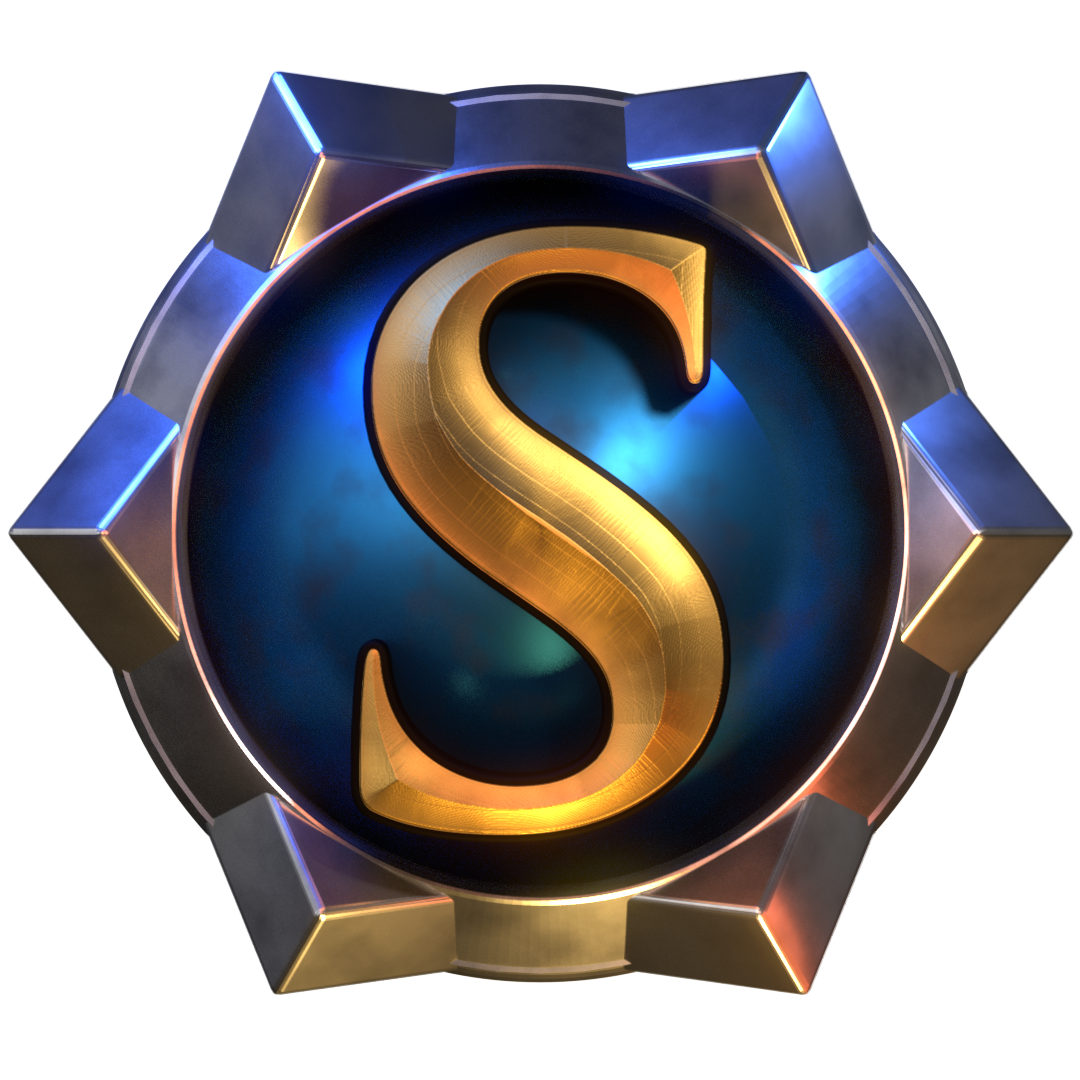
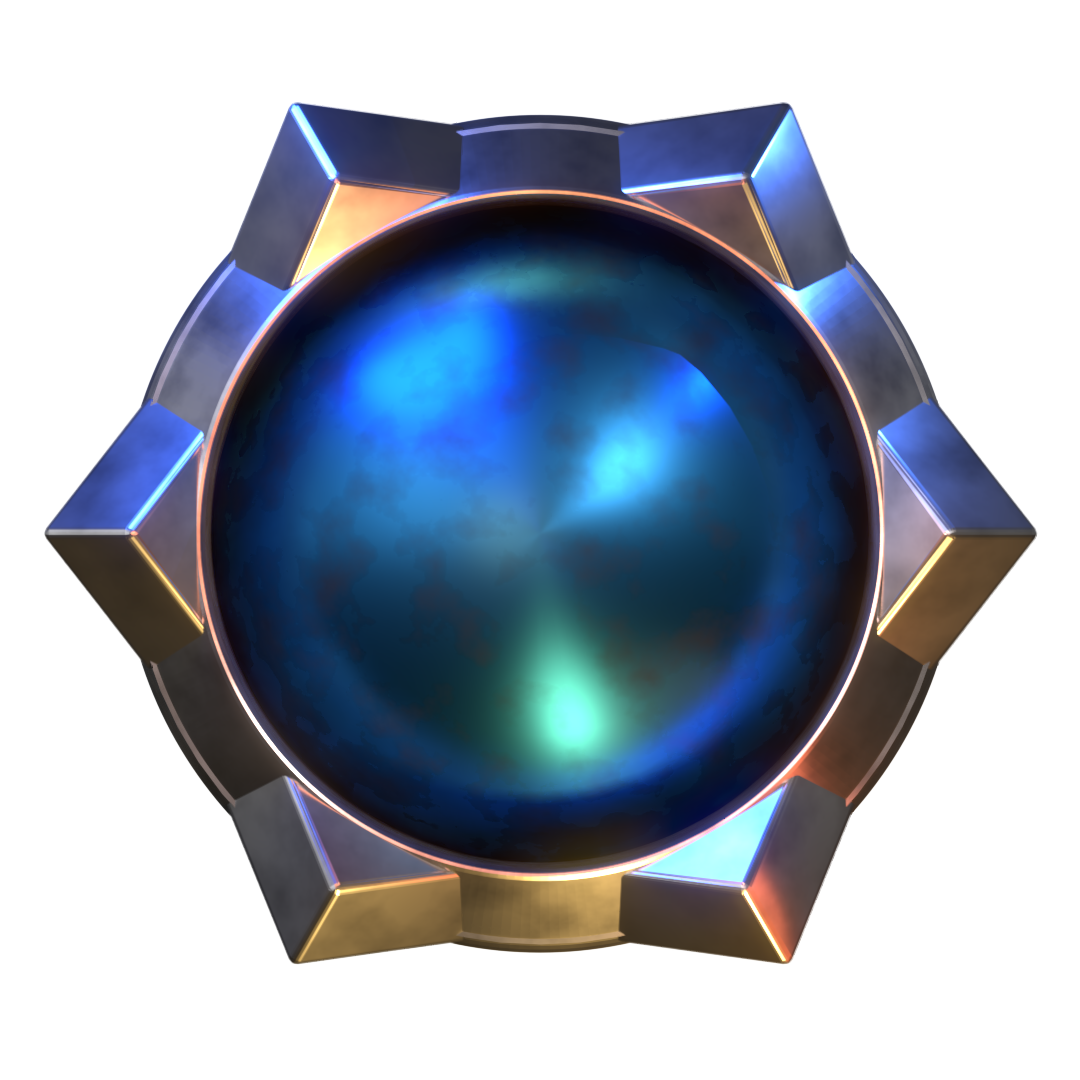
Fixed loading screen

diff --git a/app/assets/css/launcher.css b/app/assets/css/launcher.css
@@ -3755,7 +3755,7 @@ input:checked + .toggleSwitchSlider:before {
 
 /* Rotating image for the spinner. */
 #loadSpinnerImage {
-    width: 280px;
+    width: 140px;
     height: auto;
     z-index: 400;
 }
